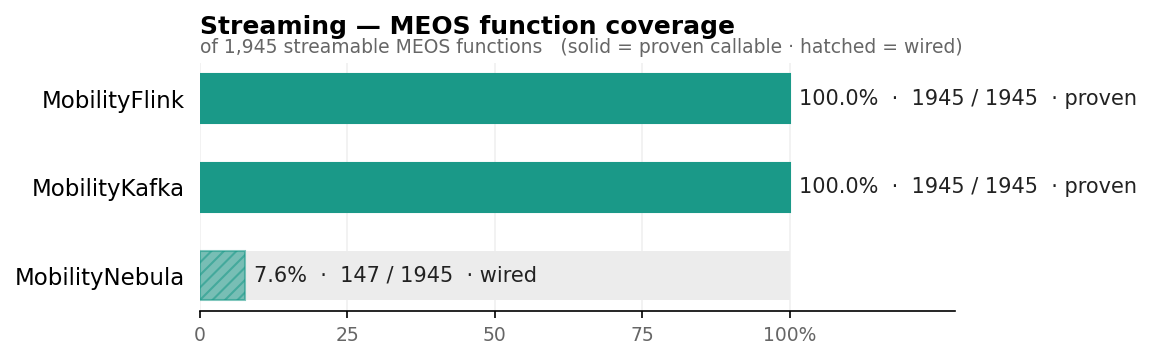
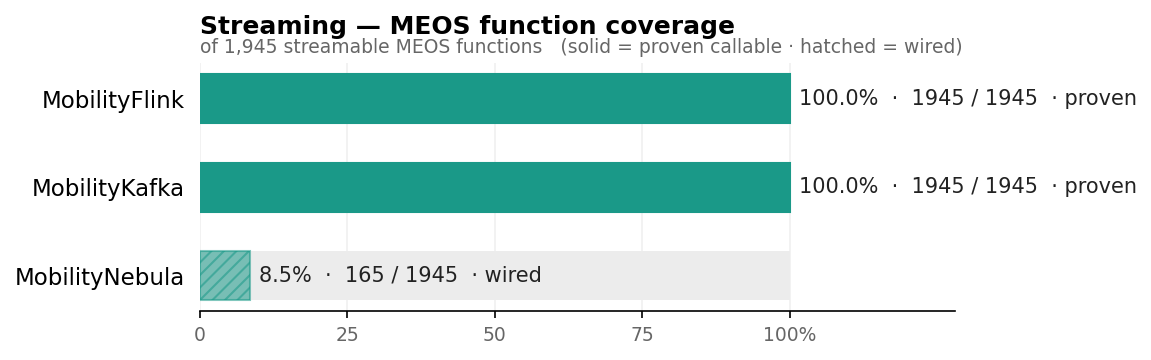
docs(profile): Nebula coverage 147 -> 165 (W23 spatial-rel + comparison ops)
Regenerate streaming-coverage.png at the new measured number, bump the image
cache-bust to ?v=2, and update the alt text + coverage table. NebulaStream is
8.5% wired (165/1945), compile-verified; Flink/Kafka unchanged at 100%.

Changed region(s): [[0.2129, 0.7028, 0.4865, 0.825]]

diff --git a/profile/images/coverage_charts.py b/profile/images/coverage_charts.py
@@ -56,7 +56,7 @@ hbar(
     [
         ("MobilityFlink",  100.0, "100.0%  ·  1945 / 1945  · proven", "#1a9988", True),
         ("MobilityKafka",  100.0, "100.0%  ·  1945 / 1945  · proven", "#1a9988", True),
-        ("MobilityNebula",   7.6, "7.6%  ·  147 / 1945  · wired",     "#1a9988", False),
+        ("MobilityNebula",   8.5, "8.5%  ·  165 / 1945  · wired",     "#1a9988", False),
     ],
     "of 1,945 streamable MEOS functions   (solid = proven callable · hatched = wired)",
 )

diff --git a/profile/streaming-parity.md b/profile/streaming-parity.md
@@ -18,7 +18,7 @@ deploy on real workloads?* — with reproducible evidence rather than assertion.
 
 Coverage of the **1,945 streamable MEOS functions** — confirmed callable on a real `libmeos`:
 
-<img src="https://raw.githubusercontent.com/MobilityDB/.github/main/profile/images/streaming-coverage.png?v=1" width="760" alt="Streaming MEOS function coverage of 1,945 streamable functions: MobilityFlink 100.0% (1945/1945, proven callable), MobilityKafka 100.0% (1945/1945, proven callable), MobilityNebula 7.6% (147/1945, wired)" />
+<img src="https://raw.githubusercontent.com/MobilityDB/.github/main/profile/images/streaming-coverage.png?v=2" width="760" alt="Streaming MEOS function coverage of 1,945 streamable functions: MobilityFlink 100.0% (1945/1945, proven callable), MobilityKafka 100.0% (1945/1945, proven callable), MobilityNebula 8.5% (165/1945, wired)" />
 
 - **Correctness** — all **9 BerlinMOD queries × 3 streaming forms = 27/27 cells** reproduce the batch result on every platform; the Flink snapshot output is **byte-identical** to the batch oracle.
 
@@ -55,7 +55,7 @@ Three layers, increasing in strength:
 |---|--:|--:|--:|
 | **MobilityFlink**  | **1,945 callable** | 1,945 | **100.0 %** |
 | **MobilityKafka**  | **1,945 callable** | 1,945 | **100.0 %** |
-| **MobilityNebula** | 6 systest-confirmed | 147 wired · compile-verified | 7.6 % wired |
+| **MobilityNebula** | 6 systest-confirmed | 165 wired · compile-verified | 8.5 % wired |
 
 Flink and Kafka share one generated JNR-FFI facade, so their callability is identical;
 it is confirmed by a type-aware per-method harness that invokes **every** facade method
